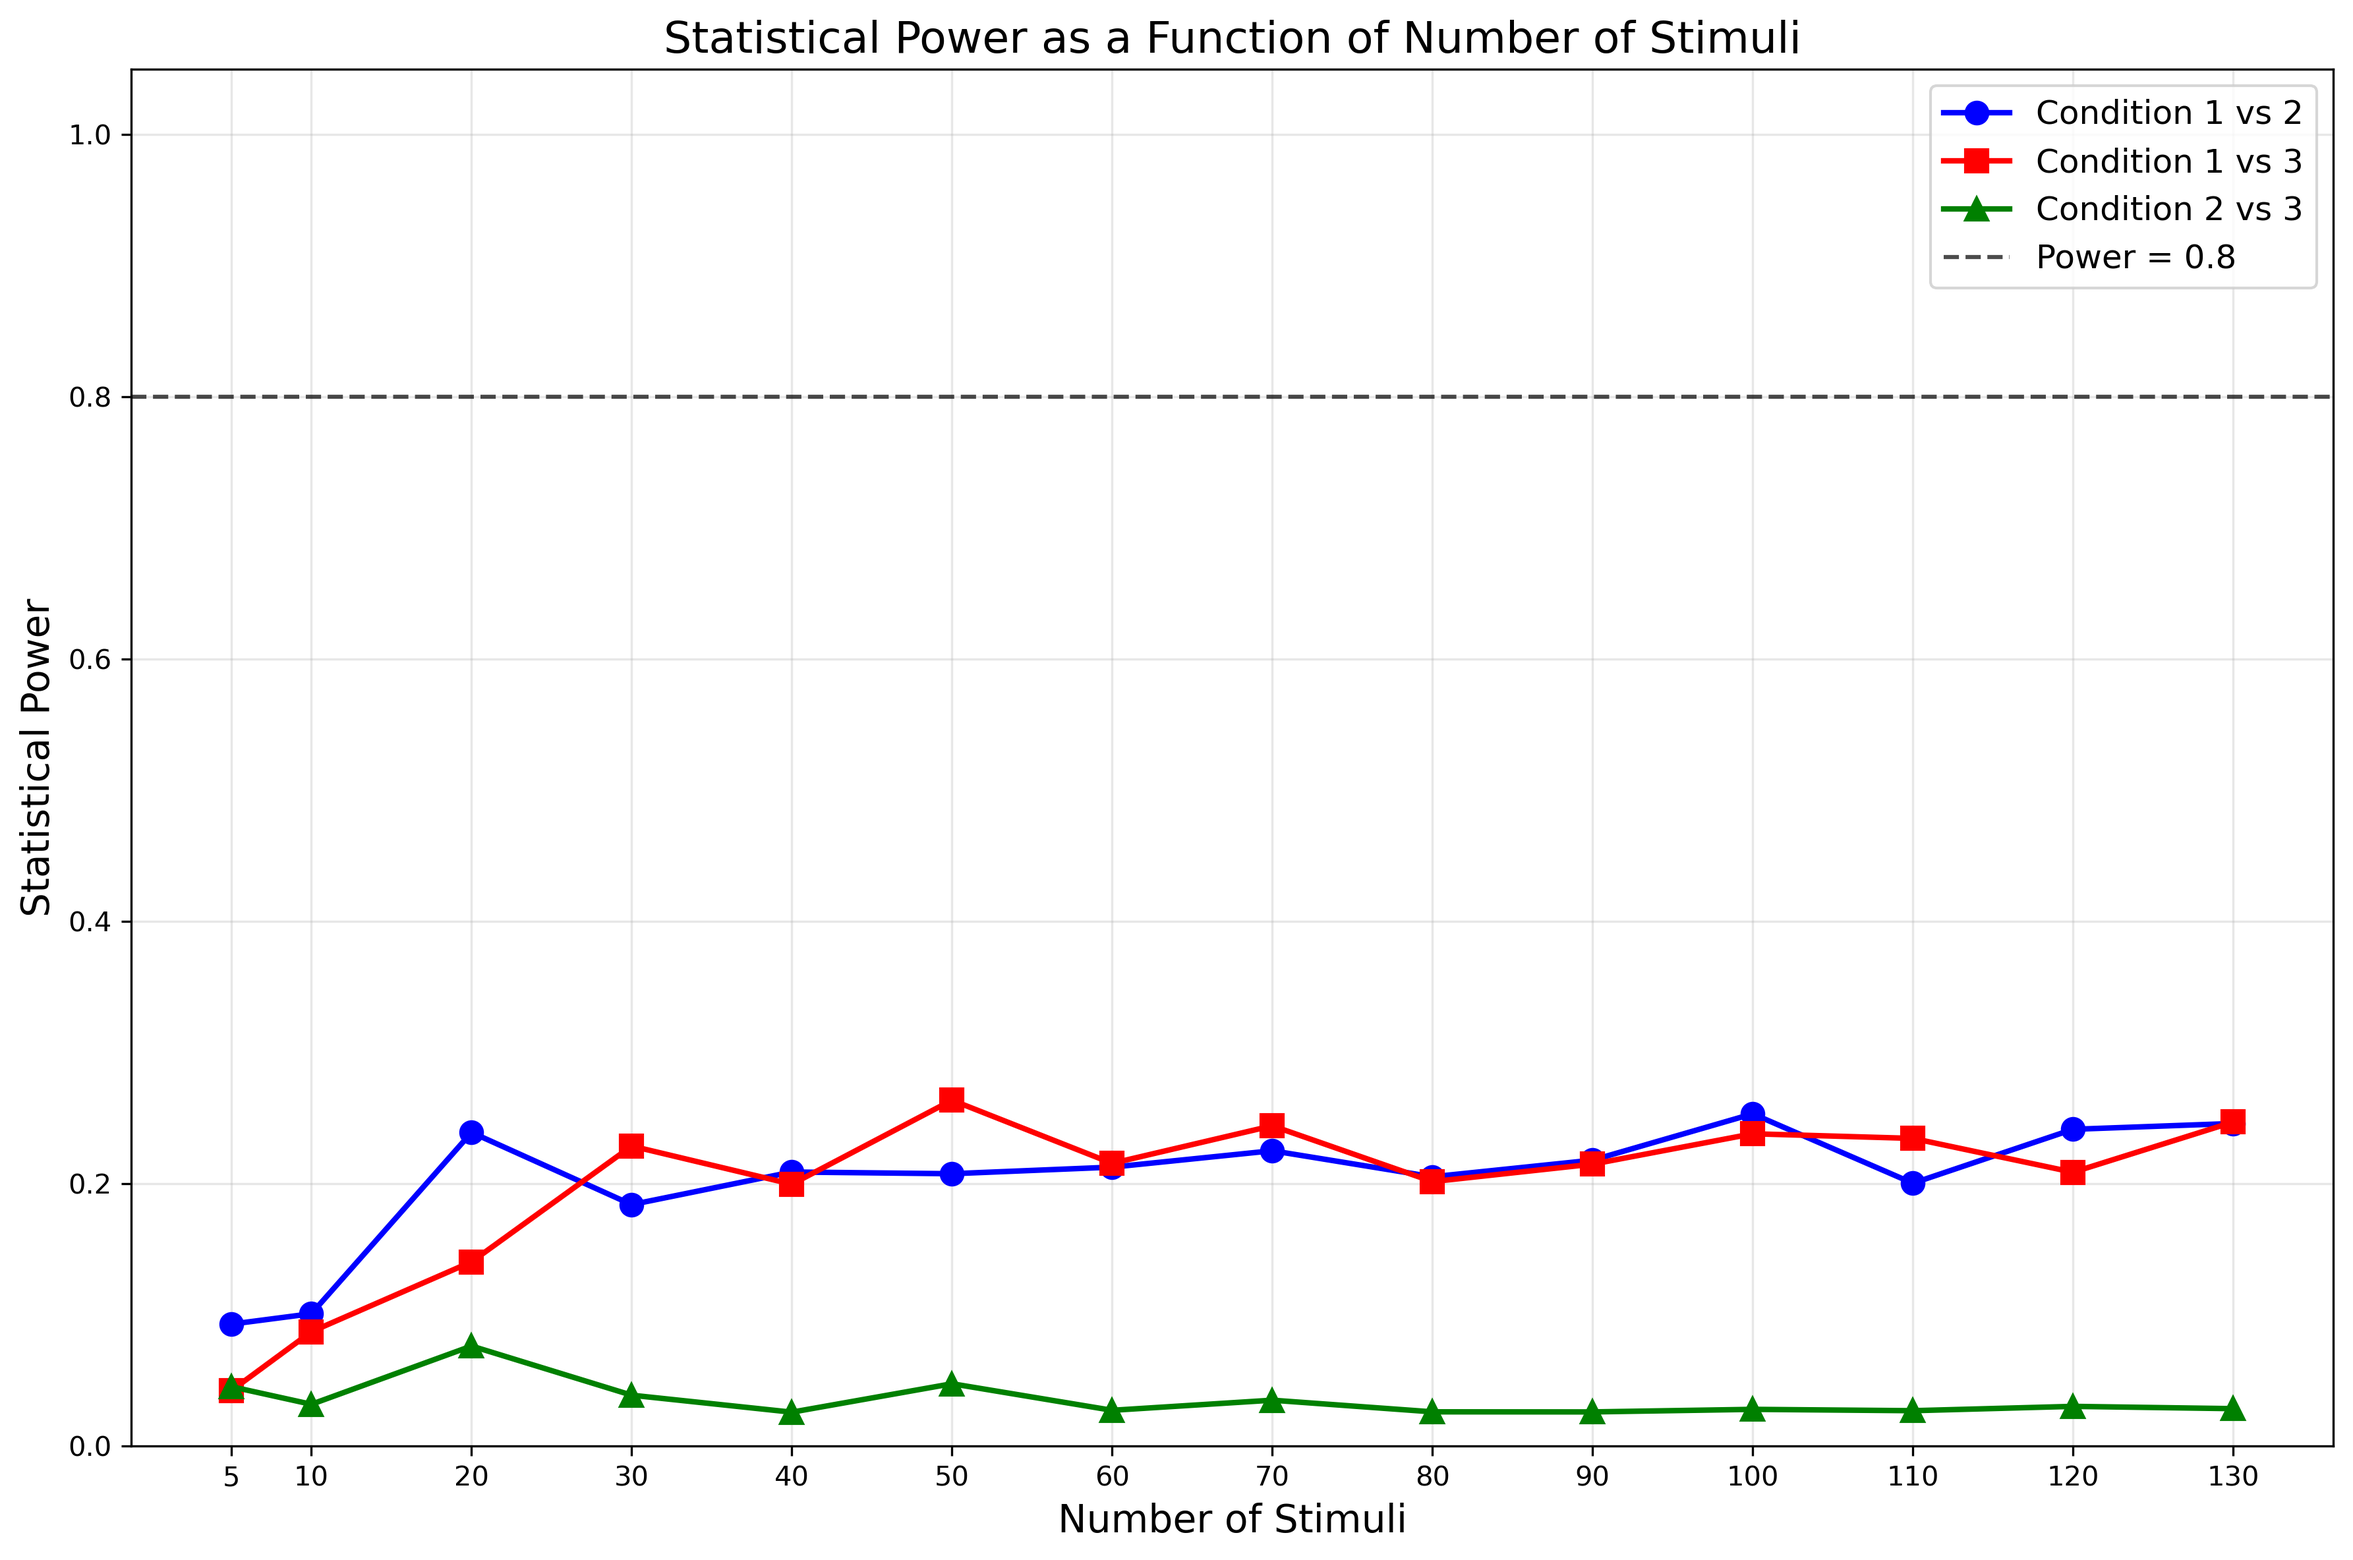
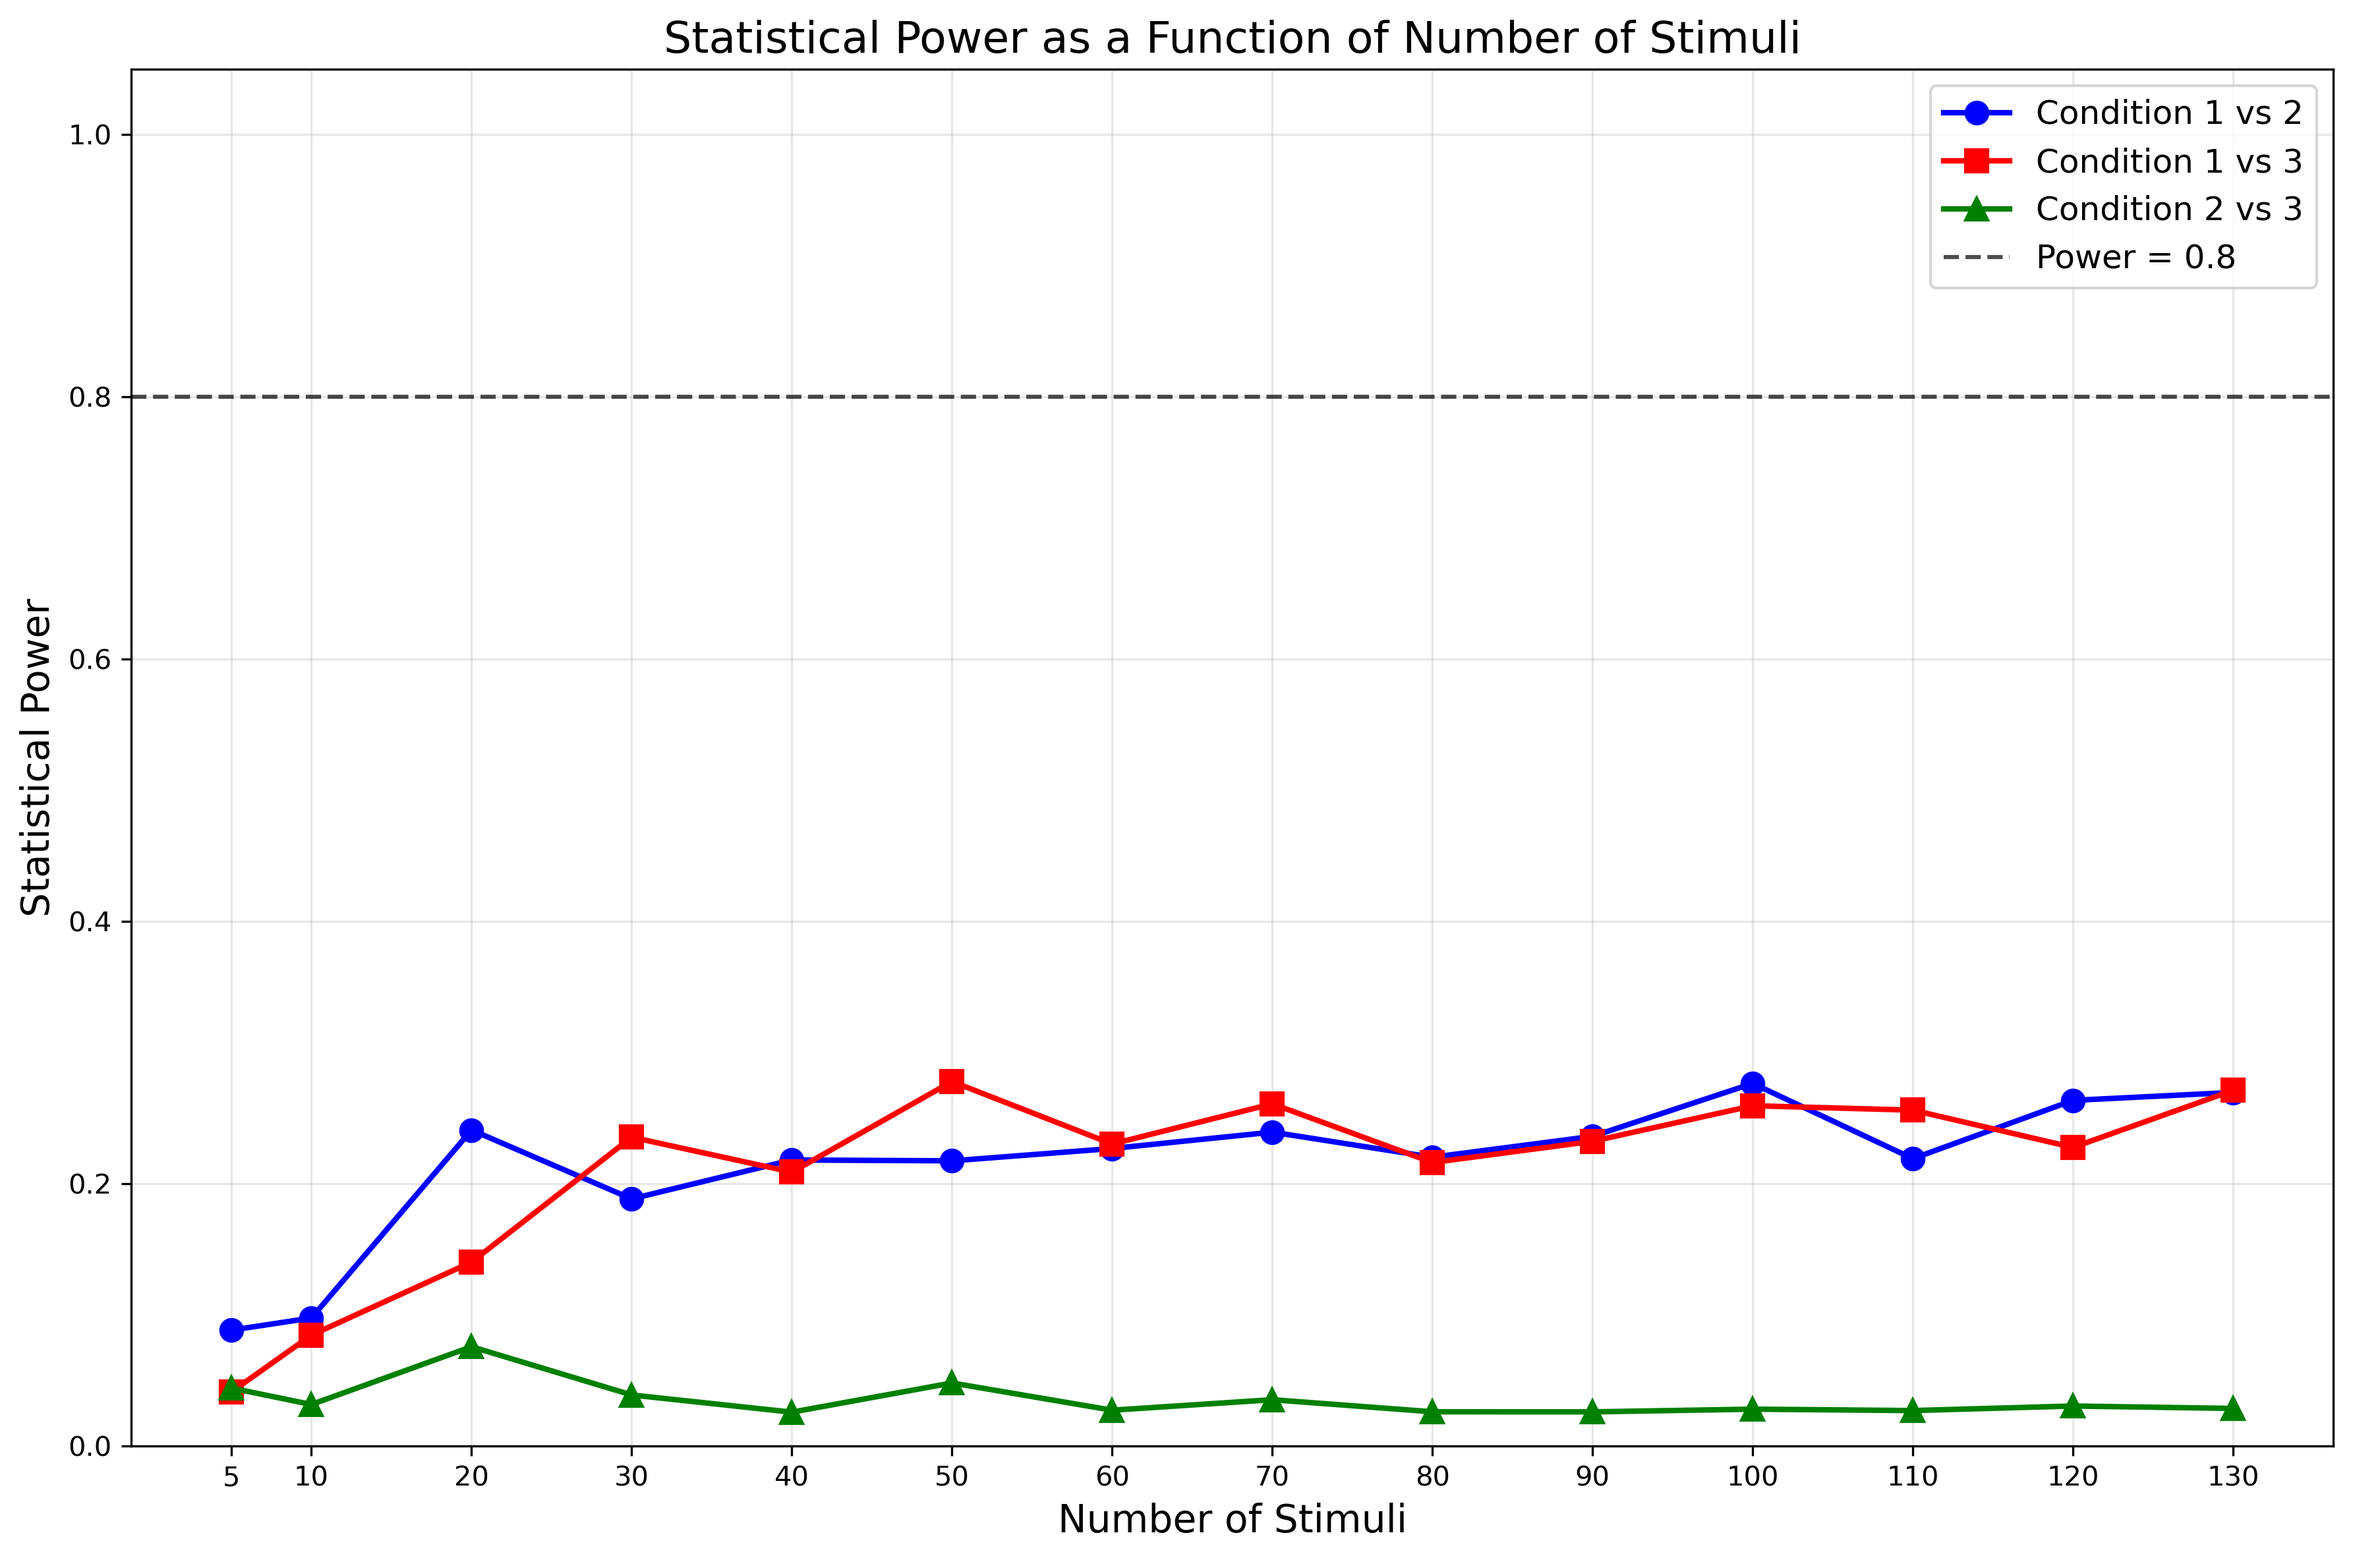
change: p shall be the total parti number of two groups

Changed region(s): [[0.2176, 0.6785, 0.9639, 0.771], [0.0933, 0.8327, 0.1555, 0.8944], [0.1866, 0.7093, 0.2176, 0.7402]]

diff --git a/main code: 15ppl per stimulus/simulate dataset 15ppl.py b/main code: 15ppl per stimulus/simulate dataset 15ppl.py
@@ -5,7 +5,7 @@ import pandas as pd
 def simulate_vt_data(n_stimuli, target_effect_size=0.4, seed=42):
     np.random.seed(seed)  # Ensure reproducibility
     n_conditions = 3  # Three conditions (Control, Human-AI, AI-Human)
-    n_total_participants = n_stimuli * 15 * n_conditions  # 15 participants per stimulus
+    n_total_participants = 30*n_stimuli  # 15 participants per stimulus
 
     # Assign conditions (1: Control, 2: Human-AI, 3: AI-Human)
     conditions = np.repeat(np.arange(1, n_conditions + 1), n_stimuli * 15)

diff --git a/main code: 5ppl per stimulus/power analysis 5 ppl.py b/main code: 5ppl per stimulus/power analysis 5 ppl.py
@@ -144,7 +144,7 @@ def compute_power_analysis_fixed(df_vt, n_stimuli, n_participants_per_stimulus):
 
     # Calculate degrees of freedom using Satterthwaite approximation for Condition 1 vs. 2
     E_12 = sigma_E2_12 + sigma_P_T2_12 + sigma_P_T_C2_12  # Error components
-    p = 15 
+    p = 10*n_stimuli 
 
     numerator_12 = (E_12 + n_stimuli*(sigma_P2_12 + sigma_P_C2_12) + p*sigma_T_C2_12/2)**2
     denominator_12 = ((E_12)**2/((p-2)*(n_stimuli-1)) + 

diff --git a/main code: 15ppl per stimulus/power analysis 15.py b/main code: 15ppl per stimulus/power analysis 15.py
@@ -144,7 +144,7 @@ def compute_power_analysis_fixed(df_vt, n_stimuli, n_participants_per_stimulus):
 
     # Calculate degrees of freedom using Satterthwaite approximation for Condition 1 vs. 2
     E_12 = sigma_E2_12 + sigma_P_T2_12 + sigma_P_T_C2_12  # Error components
-    p = 45 
+    p = 30*n_stimuli
 
     numerator_12 = (E_12 + n_stimuli*(sigma_P2_12 + sigma_P_C2_12) + p*sigma_T_C2_12/2)**2
     denominator_12 = ((E_12)**2/((p-2)*(n_stimuli-1)) + 

diff --git a/main code: 8ppl per stimulus/power analysis 8.py b/main code: 8ppl per stimulus/power analysis 8.py
@@ -144,7 +144,7 @@ def compute_power_analysis_fixed(df_vt, n_stimuli, n_participants_per_stimulus):
 
     # Calculate degrees of freedom using Satterthwaite approximation for Condition 1 vs. 2
     E_12 = sigma_E2_12 + sigma_P_T2_12 + sigma_P_T_C2_12  # Error components
-    p = 24 
+    p = 16*n_stimuli
 
     numerator_12 = (E_12 + n_stimuli*(sigma_P2_12 + sigma_P_C2_12) + p*sigma_T_C2_12/2)**2
     denominator_12 = ((E_12)**2/((p-2)*(n_stimuli-1)) + 
